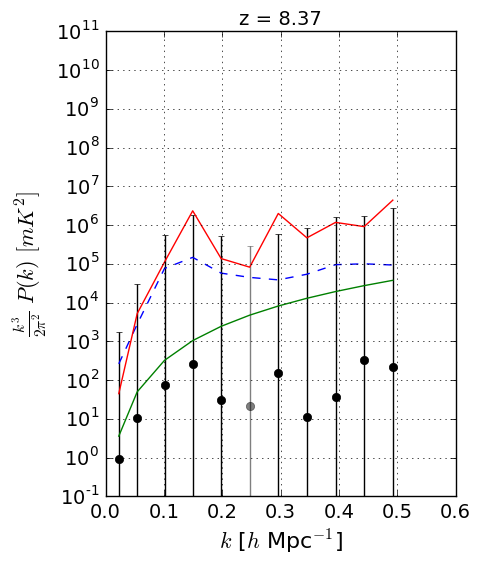
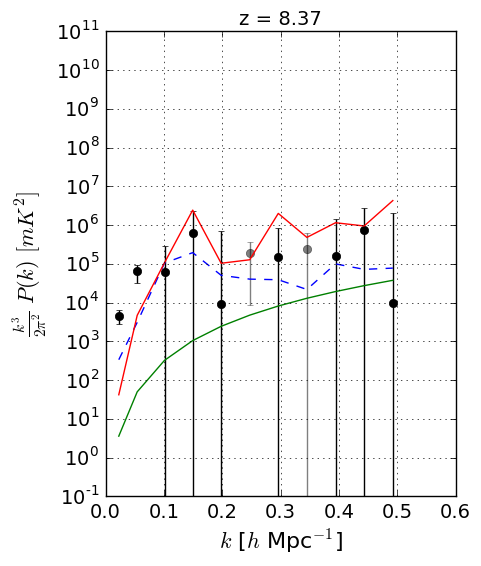
updated fig B3 to match

diff --git a/PAPER.tex b/PAPER.tex
@@ -1783,7 +1783,7 @@ As the injected signal approaches the level of the data, the probability of null
   
 Lastly, this method requires that we choose the probability at which we choose to reject the null hypothesis. As can be seen in Figure \ref{fig:Prob_vs_Pin}, the difference between $80$\% and $90$\% can mean a difference of almost an order of magnitude in the power spectrum level that is ruled out. We can also see that, due to the small number of samples, the probability does not perfectly converge at high injected power levels. Rather than insist on a rejection at the $99$th percent level, we compromise at $95$\%.
 
-The resulting limits for inverse covariance weighted PAPER-64 data (the same data used in Section \ref{sec:Sigloss}, no regularization), using this second signal loss method, are shown in Figure \ref{fig:sigloss_compare} compared with the method used in the main text. Overall the limits show good agreement, with k modes differing by factors of $\sim$$3$.  
+The resulting limits for inverse covariance weighted PAPER-64 data (the same data used in Section \ref{sec:Sigloss}, no regularization), using this second signal loss method, are shown in Figure \ref{fig:sigloss_compare} compared with the method used in the main text. Overall the limits show good agreement, with k modes differing by factors of $\sim$$2$ for $k > 0.1$ $h$Mpc$^{-1}$ .  
 
 \begin{figure}[t]
 \centering
